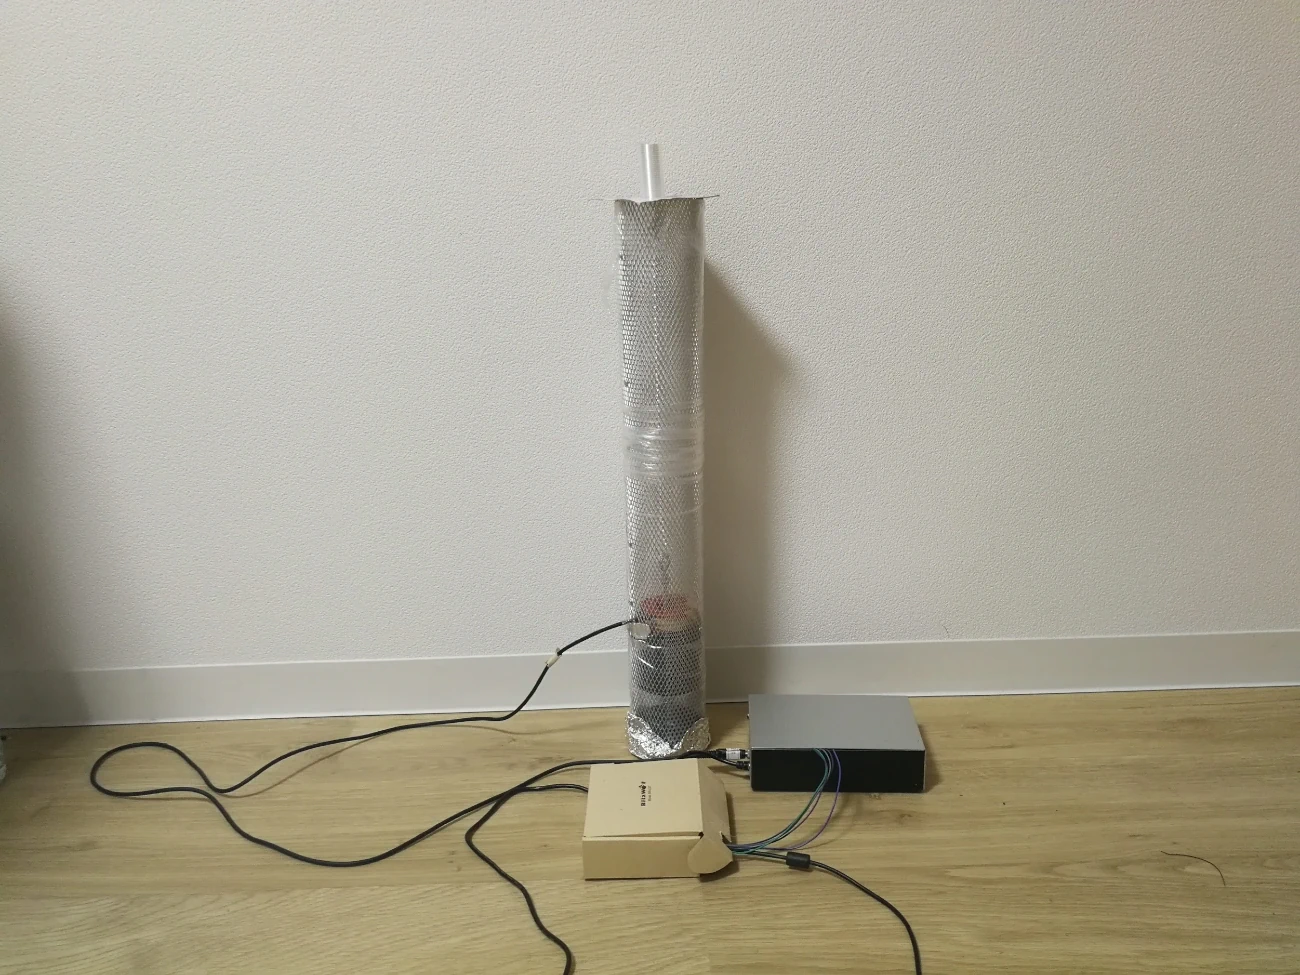
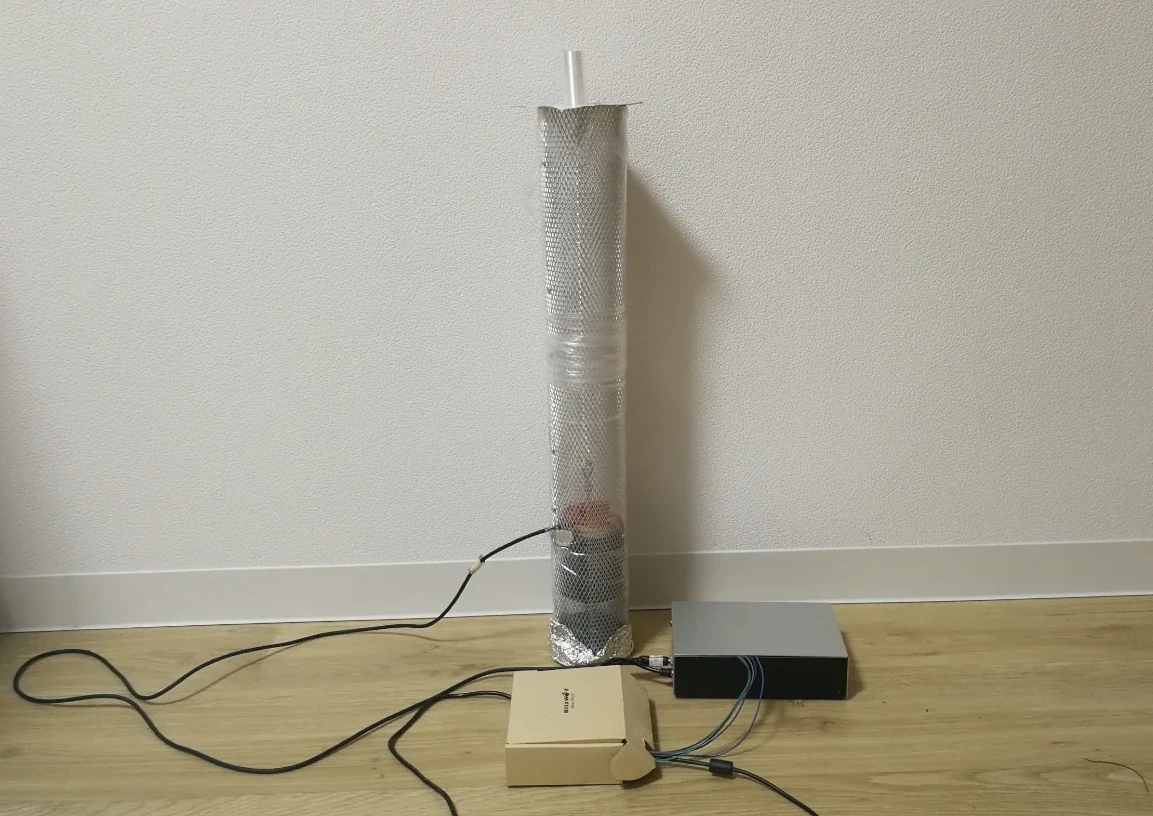
Zoom in image of seismometer.

diff --git a/seismometer/index.md b/seismometer/index.md
@@ -4,8 +4,8 @@ description: Building a Global Earthquake-Detecting Seismometer with a Raspberry
 
 image:
   path: /seismometer/seismometer_overview_small.webp
-  height: 975
-  width: 1300
+  height: 816
+  width: 1153
   alt: Photo of the vertical pendulum seismometer
 ---
 
